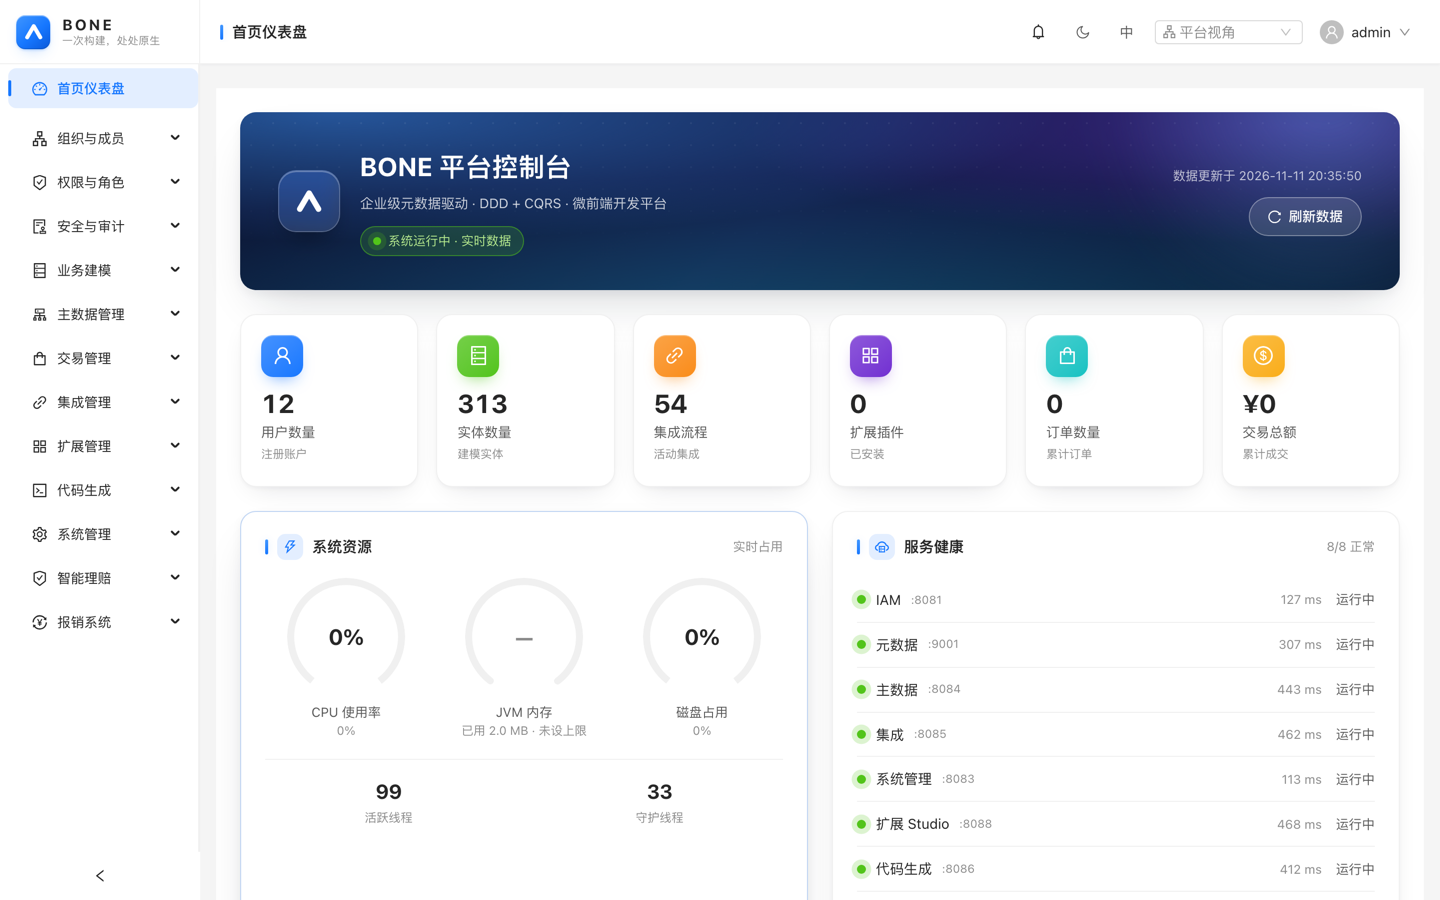
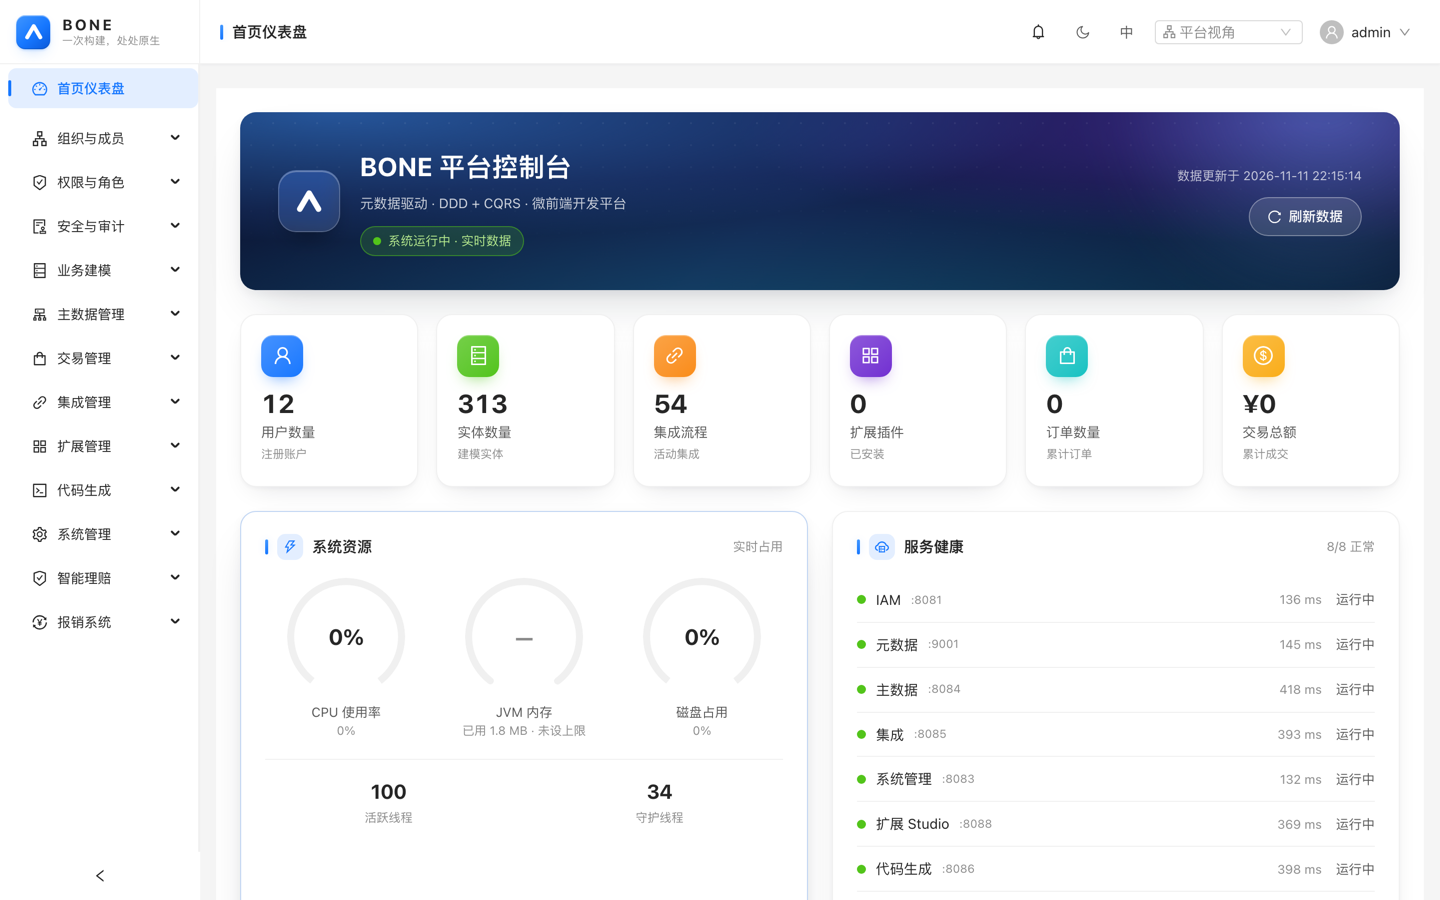
refactor(ui): 统一页面标题与首页副标题口径为元数据驱动并更新 README 截图

diff --git a/bone-frontend/apps/bone-shell/src/pages/DashboardPage.tsx b/bone-frontend/apps/bone-shell/src/pages/DashboardPage.tsx
@@ -299,7 +299,7 @@ export default function DashboardPage(): JSX.Element {
           </div>
           <div>
             <h1 className="db-hero-title">BONE 平台控制台</h1>
-            <p className="db-hero-sub">企业级元数据驱动 · DDD + CQRS · 微前端开发平台</p>
+            <p className="db-hero-sub">元数据驱动 · DDD + CQRS · 微前端开发平台</p>
             <span className="db-hero-chip">
               <span className="db-live-dot" />
               系统运行中 · 实时数据

diff --git a/bone-frontend/apps/bone-shell/index.html b/bone-frontend/apps/bone-shell/index.html
@@ -4,7 +4,7 @@
     <meta charset="UTF-8" />
     <link rel="icon" type="image/svg+xml" href="/bone-mark.svg" />
     <meta name="viewport" content="width=device-width, initial-scale=1.0" />
-    <title>BONE · 企业级全栈原生快速开发平台</title>
+    <title>BONE · 元数据驱动的 AI 应用开发平台</title>
   </head>
   <body>
     <div id="root"></div>
